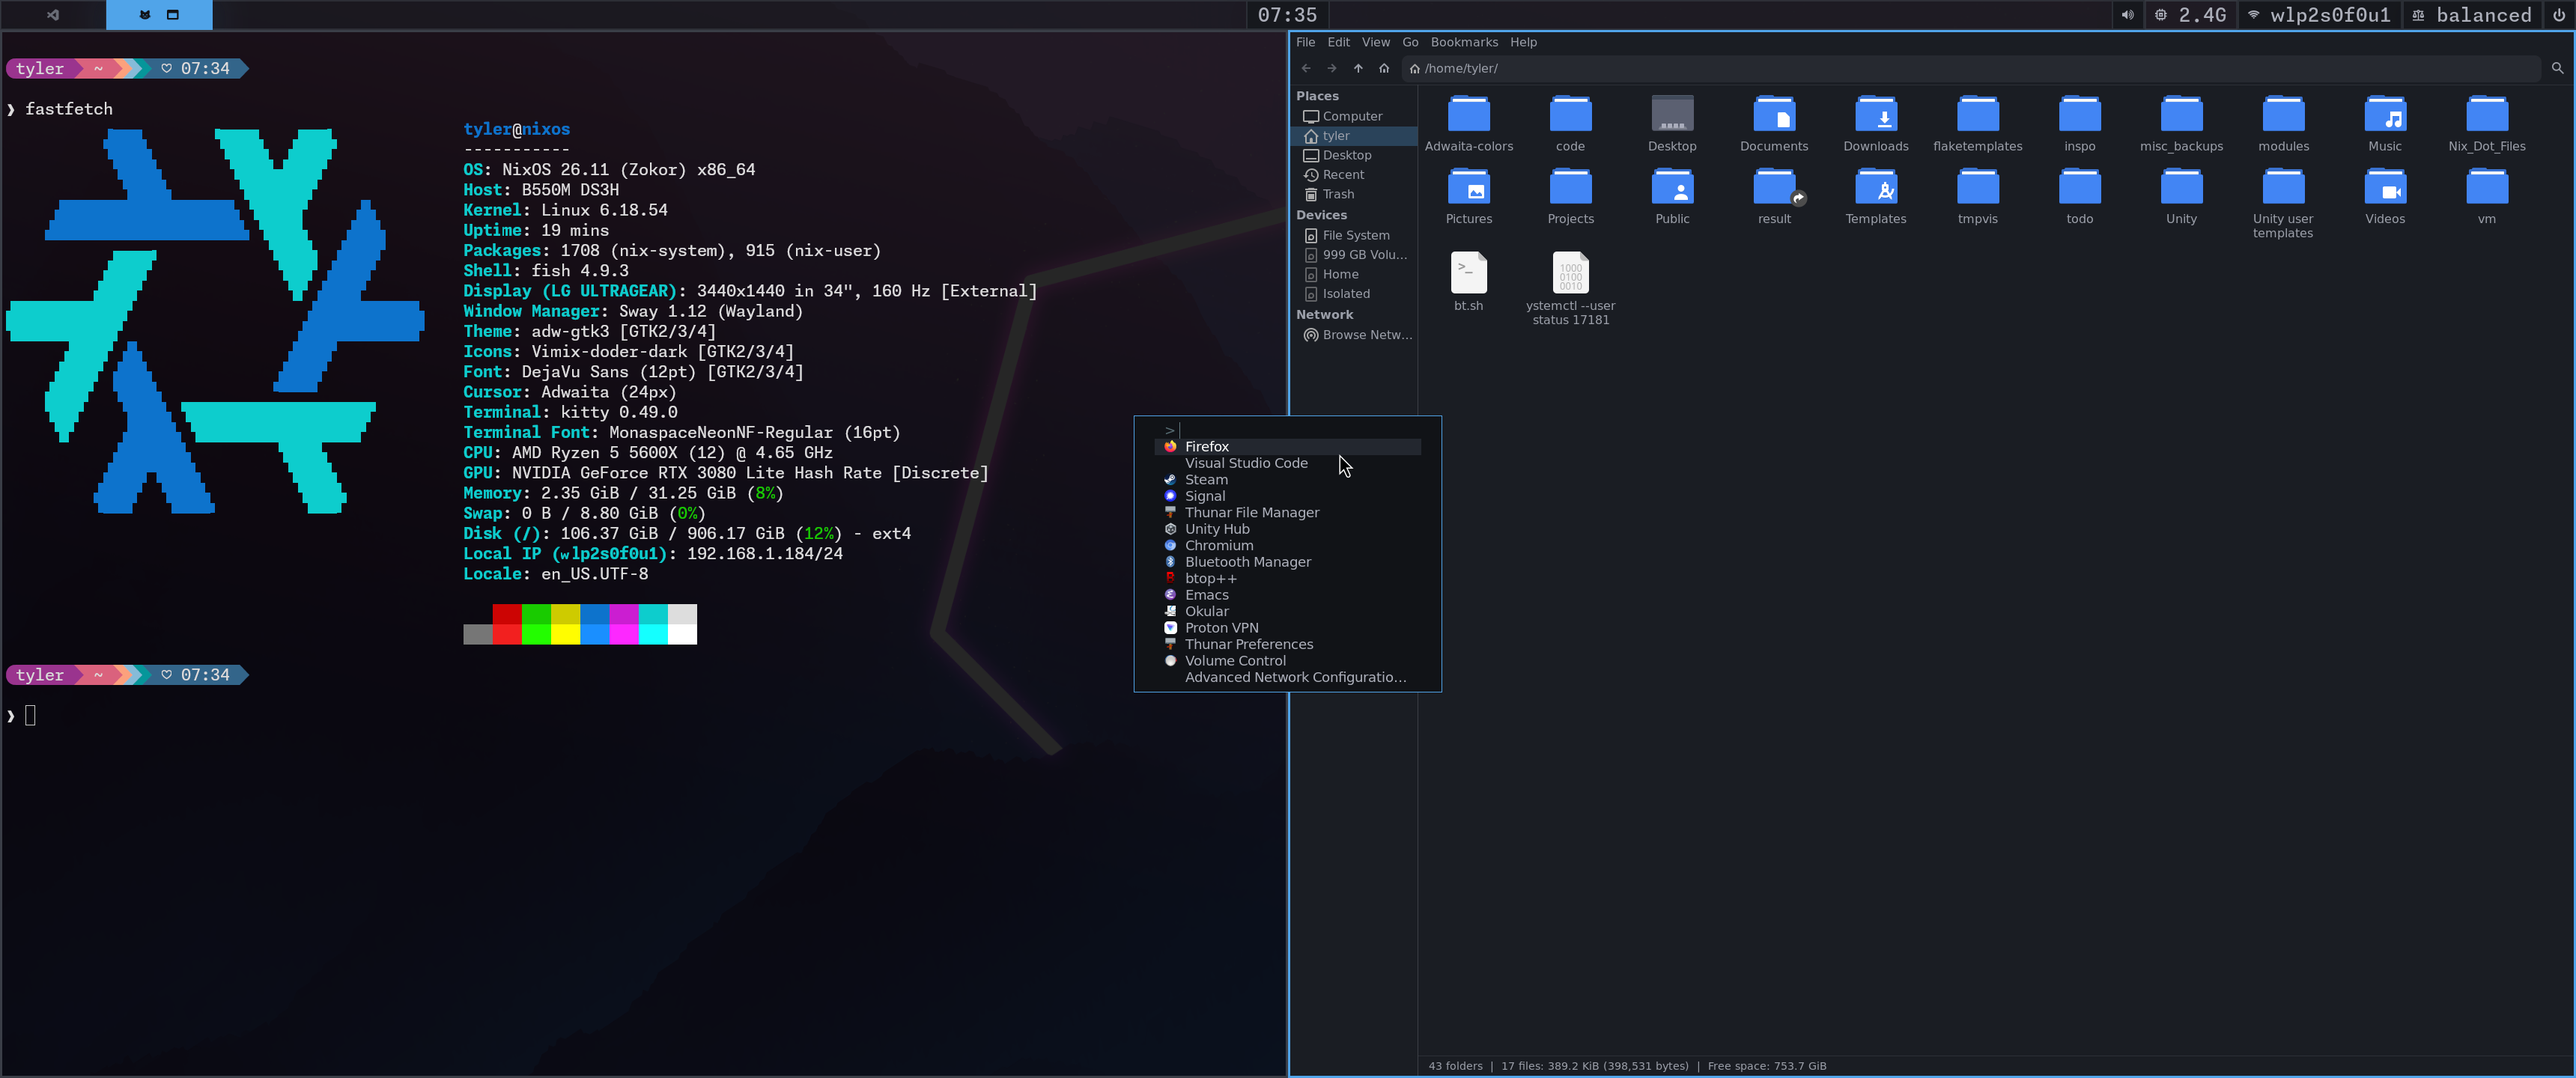
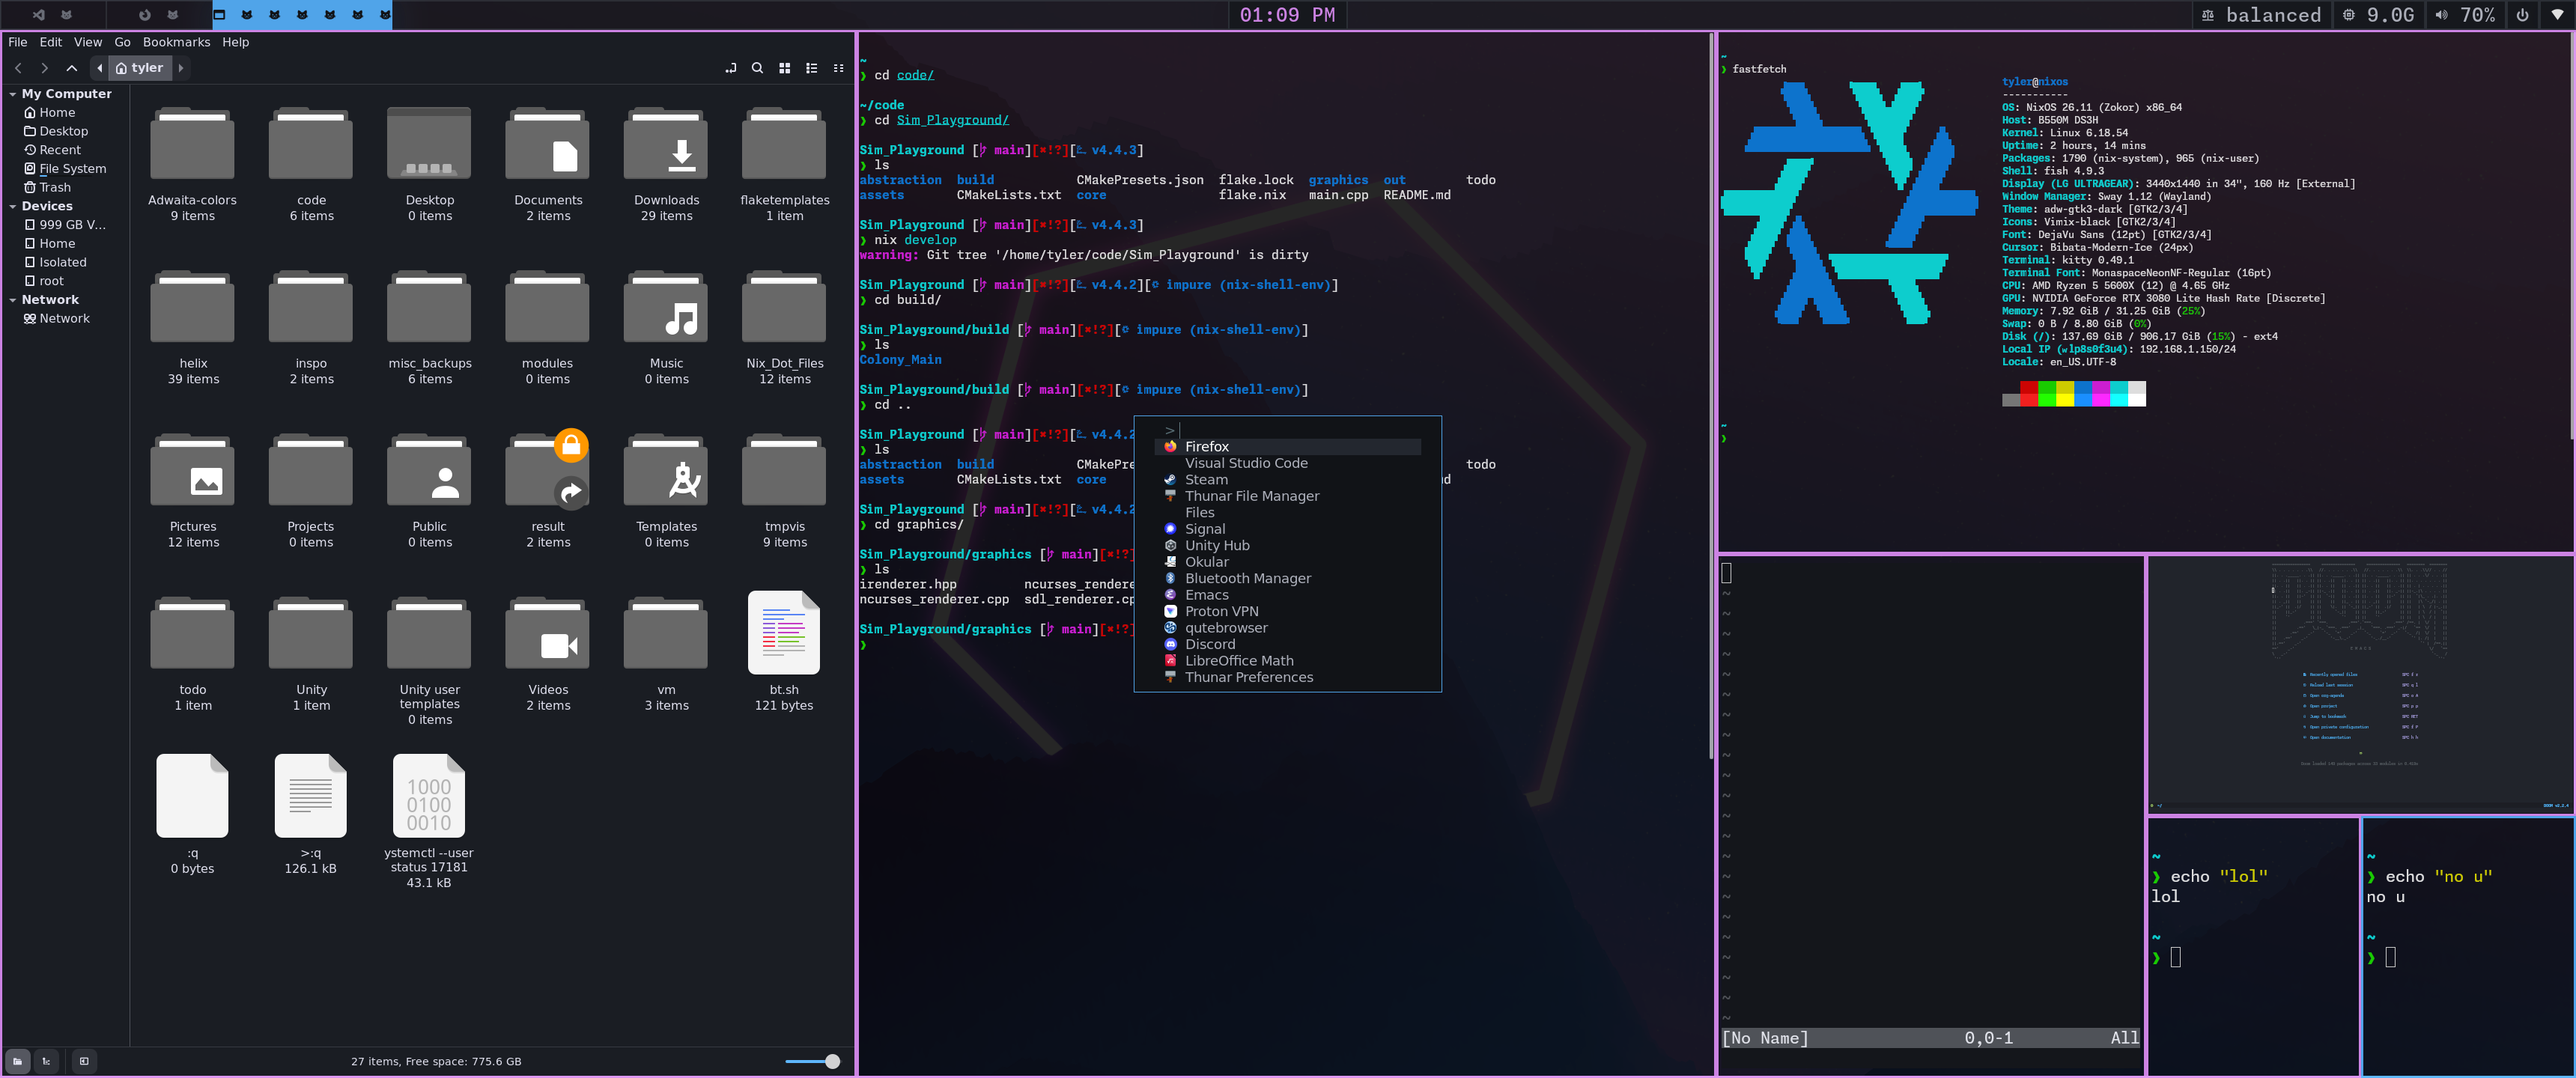
debugging cdda, new screenshot, contemplating software to keep

diff --git a/README.md b/README.md
@@ -18,8 +18,8 @@ The goal is to make it easier to try a different workflow without starting from 
 > **Warning:** This is primarily my goal, not a claim that this project is ready to be installed as a complete system, especially by beginners. It is still a work in progress and reflects my own experimentation with NixOS. It wasn't until I saw how easily Nix could be used to build a custom environment brick by brick that I realized how powerful it is as a tool for experimentation.
 
 ## Screenshots
-![Screenshot 2](scrot.png)
-
+![Screenshot 1](scrot.png)
+![Screenshot 2](scrot2.png)
 ## Credits
 
 ### Wallpaper Credit
@@ -65,83 +65,83 @@ To understand my thinking with this layout, I wanted apps that most people need 
 
 ```text
 ├── docs
-│   ├── about.md
-│   ├── implement.nix
-│   ├── sway.md
-│   └── todo.md
+│   ├── about.md
+│   ├── implement
+│   ├── implement.nix
+│   ├── sway.md
+│   └── todo.md
 ├── flake.lock
 ├── flake.nix
 ├── home
 ├── home-manager
-│   ├── default.nix
-│   ├── pkg
-│   │   ├── chromium.nix
-│   │   ├── firefox.nix
-│   │   ├── fish.nix
-│   │   ├── fuzzel.nix
-│   │   ├── git.nix
-│   │   ├── helix.nix
-│   │   ├── kanshi.nix
-│   │   ├── kitty.nix
-│   │   ├── packages.nix
-│   │   ├── qutebrowser.nix
-│   │   ├── starship.nix
-│   │   ├── thunar.nix
-│   │   ├── unity_hub.nix
-│   │   ├── vivaldi.nix
-│   │   ├── vscode.nix
-│   │   └── wlogout.nix
-│   ├── stylix
-│   │   ├── default.nix
-│   │   └── include.nix
-│   └── sway
-│       ├── sway.nix
-│       └── waybar.nix
+│   ├── default.nix
+│   ├── pkg
+│   │   ├── chromium.nix
+│   │   ├── firefox.nix
+│   │   ├── fish.nix
+│   │   ├── fuzzel.nix
+│   │   ├── git.nix
+│   │   ├── helix.nix
+│   │   ├── kanshi.nix
+│   │   ├── kitty.nix
+│   │   ├── packages.nix
+│   │   ├── qutebrowser.nix
+│   │   ├── starship.nix
+│   │   ├── unity_hub.nix
+│   │   ├── vivaldi.nix
+│   │   ├── vscode.nix
+│   │   └── wlogout.nix
+│   ├── stylix
+│   │   ├── default.nix
+│   │   └── include.nix
+│   └── sway
+│       ├── sway.nix
+│       └── waybar.nix
 ├── hosts
-│   ├── desktop
-│   │   ├── default.nix
-│   │   └── hardware-configuration.nix
-│   ├── generic
-│   │   ├── default.nix
-│   │   └── hardware-configuration.nix
-│   └── laptop
-│       ├── default.nix
-│       └── hardware-configuration.nix
+│   ├── desktop
+│   │   ├── default.nix
+│   │   └── hardware-configuration.nix
+│   ├── generic
+│   │   ├── default.nix
+│   │   └── hardware-configuration.nix
+│   └── laptop
+│       ├── default.nix
+│       └── hardware-configuration.nix
 ├── LICENSE
 ├── modules
-│   ├── audio
-│   │   └── audio.nix
-│   ├── de
-│   │   ├── mango.nix
-│   │   └── sway.nix
-│   ├── default.nix
-│   ├── dm
-│   │   └── tuigreet.nix
-│   ├── graphics
-│   │   └── nvidia.nix
-│   ├── packages
-│   │   ├── gaming.nix
-│   │   └── packages.nix
-│   ├── system
-│   │   ├── boot.nix
-│   │   ├── fonts.nix
-│   │   ├── locale.nix
-│   │   ├── networking.nix
-│   │   ├── security.nix
-│   │   ├── session.nix
-│   │   └── system.nix
-│   └── users
-│       └── tyler.nix
+│   ├── audio
+│   │   └── audio.nix
+│   ├── de
+│   │   ├── mango.nix
+│   │   └── sway.nix
+│   ├── default.nix
+│   ├── dm
+│   │   └── tuigreet.nix
+│   ├── graphics
+│   │   └── nvidia.nix
+│   ├── packages
+│   │   ├── gaming.nix
+│   │   └── packages.nix
+│   ├── system
+│   │   ├── boot.nix
+│   │   ├── fonts.nix
+│   │   ├── locale.nix
+│   │   ├── networking.nix
+│   │   ├── security.nix
+│   │   ├── session.nix
+│   │   └── system.nix
+│   └── users
+│       └── tyler.nix
 ├── README.md
 ├── reference
-│   ├── astrodark.lua
-│   └── Hilltopper.png
+│   ├── astrodark.lua
+│   └── Hilltopper.png
 ├── scripts
-│   ├── editglobalconf.sh
-│   ├── rebuild.sh
-│   ├── security_check.sh
-│   ├── trash.sh
-│   └── upgrade.sh
+│   ├── editglobalconf.sh
+│   ├── rebuild.sh
+│   ├── security_check.sh
+│   ├── trash.sh
+│   └── upgrade.sh
 └── scrot.png
 ```
 **The Above Structure is a Work In Progress**

diff --git a/docs/todo.md b/docs/todo.md
@@ -8,9 +8,29 @@
 
 ---
 ## Configuration Organization
+### Sway
+Autotiling is conflicting with window management: super + t
+
+My short term fix:
+```
+# Press Super + Alt + A to start autotiling
+bindsym $mod+Mod1+a exec autotiling
+
+# Press Super + Alt + X to kill autotiling and return to pure i3/Sway behavior
+bindsym $mod+Mod1+x exec pkill -f autotiling
+```
+But I should use a toggle script:
+```
+# Toggle autotiling on and off with Super + Alt + T
+bindsym $mod+Mod1+t exec pkill -f autotiling || autotiling
+```
 ### Performance Cleanups 
 * Considering Cachy kernel
 * Need to set default apps
+* CCDA 
+* Copy from command output imperatively 
+* Kitty now has terminal custom shaders!! The future is now.
+* Remove either thunar or nemo
 
 ### Inconsistent UI
 * Keep showing workspace if empty but < current workspace
@@ -21,12 +41,16 @@
 * Unfocused window border is inconsistent 
 * Defaults? No default term?
 * Terminal isn't fallback software -> move to home manager.
+* Workspace char padding for large workspaces
 
 ### Security
 ### Misc
 * Enable swaylock
 * Add support for cloud storage & mount at boot
 * All nix code should use alejandra formatter
+
+### Unrelated to linux
+* JS Script works in chrome but not vivaldi 
 ---
 
 ## Desktop Environment / Window Manager Setup
